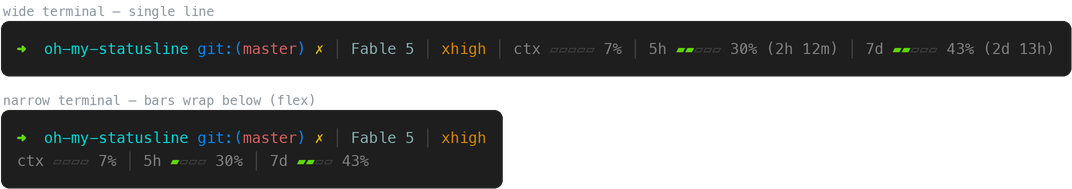
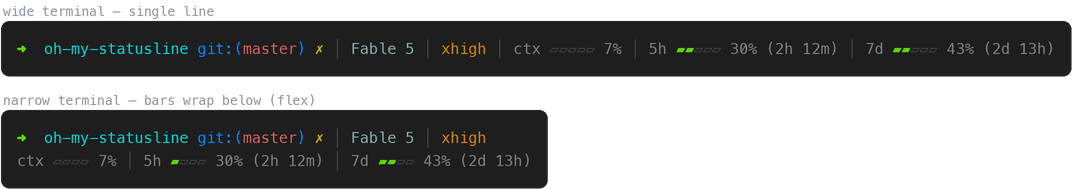
fix: keep reset countdowns through compact layout tiers
Narrow terminals now shrink the bars (5 → 4 cells → no glyphs) but keep
the reset countdowns; they drop only as a last resort below ~40 columns.

Changed region(s): [[0.2463, 0.582, 0.5233, 1.0]]

diff --git a/README.md b/README.md
@@ -5,7 +5,7 @@ oh-my-zsh (robbyrussell) flavored status line for Claude Code.
 ![oh-my-statusline — wide and narrow layouts](assets/screenshot.png)
 
 On narrow terminals the bars wrap onto a second row (flex-wrap style), then
-compact further until they fit — down to plain `label NN%` text.
+compact further until they fit — reset countdowns always stay visible.
 
 | Segment | What it shows |
 | --- | --- |
@@ -69,5 +69,6 @@ in (all other keys preserved), smoke-tests the script, and shows a sample render
   fewer segments, never garbage output.
 - Responsive layout reads the terminal width from `$COLUMNS` (exported by
   Claude Code v2.1.153+; `/dev/tty` fallback, then 80). Tiers: one line →
-  bars on a second row → compact bars without countdowns → plain `label NN%`
-  text.
+  bars on a second row → narrower bars → bar glyphs dropped. Reset
+  countdowns survive every tier and only vanish as the very last resort on
+  extremely narrow terminals.